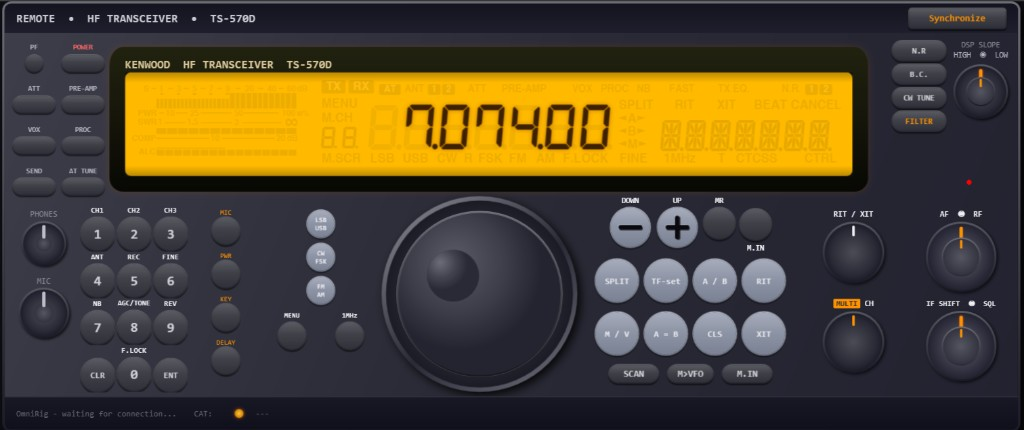
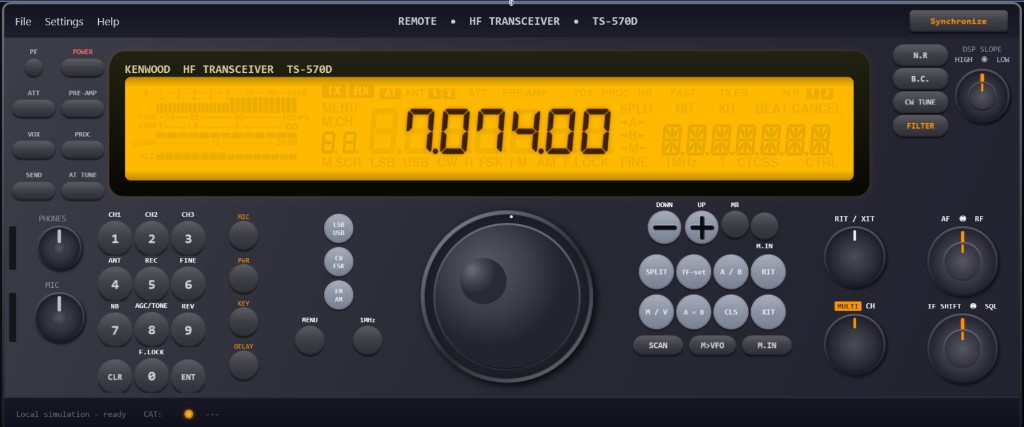
v0.2.0: audio/settings UI and refreshed README screenshot
Made-with: Cursor

diff --git a/TS570_Remote/AudioSettingsWindow.xaml b/TS570_Remote/AudioSettingsWindow.xaml
@@ -23,14 +23,14 @@
             <RowDefinition Height="Auto"/>
         </Grid.RowDefinitions>
         <TextBlock Grid.Row="0"
-                   Text="Como en WSJT-X: Input = audio desde la emisora hacia el PC; Output (monitor) = dónde escuchas en el PC; Output (TX / MIC) = altavoces USB hacia la emisora para transmitir."
+                   Text="As in WSJT-X: Input = radio to PC; Output (monitor) = where you listen on the PC; Output (TX / MIC) = USB playback toward the radio for transmit."
                    Foreground="#FFFFB040" FontFamily="Consolas" FontSize="10" TextWrapping="Wrap"
                    Margin="0,0,0,12"/>
 
-        <TextBlock Grid.Row="1" Text="Input — entrada (captura)"
+        <TextBlock Grid.Row="1" Text="Input — capture (recording)"
                    Foreground="#FFE0E0E8" FontFamily="Consolas" FontSize="11" TextWrapping="Wrap" Margin="0,0,0,4"/>
         <TextBlock Grid.Row="2"
-                   Text="Interfaz USB / línea desde ACC2 (audio de RX hacia Windows)."
+                   Text="USB / line from ACC2 (RX audio into Windows)."
                    Foreground="#FF8A8A96" FontFamily="Consolas" FontSize="9" TextWrapping="Wrap" Margin="0,0,0,8"/>
         <ComboBox x:Name="cmbCapture"
                   Grid.Row="3"
@@ -38,10 +38,10 @@
                   Margin="0,0,0,14"
                   DisplayMemberPath="FriendlyName"/>
 
-        <TextBlock Grid.Row="4" Text="Output — salida para monitor (knob PHONES en la app)"
+        <TextBlock Grid.Row="4" Text="Output — monitor playback (PHONES knob)"
                    Foreground="#FFE0E0E8" FontFamily="Consolas" FontSize="11" TextWrapping="Wrap" Margin="0,0,0,4"/>
         <TextBlock Grid.Row="5"
-                   Text="Altavoces o auriculares donde suena el monitor ACC2 (solo ganancia en software sobre esa ruta)."
+                   Text="Speakers or headphones for ACC2 monitoring (software gain on this path only)."
                    Foreground="#FF8A8A96" FontFamily="Consolas" FontSize="9" TextWrapping="Wrap" Margin="0,0,0,8"/>
         <ComboBox x:Name="cmbPlayback"
                   Grid.Row="6"
@@ -50,10 +50,10 @@
                   Margin="0,0,0,14"
                   DisplayMemberPath="FriendlyName"/>
 
-        <TextBlock Grid.Row="7" Text="Output — salida para transmitir (knob MIC → volumen Windows)"
+        <TextBlock Grid.Row="7" Text="Output — transmit path (MIC knob → Windows volume)"
                    Foreground="#FFE0E0E8" FontFamily="Consolas" FontSize="11" TextWrapping="Wrap" Margin="0,0,0,4"/>
         <TextBlock Grid.Row="8"
-                   Text="El mismo tipo que “Speakers (USB …)” en WSJT-X: nivel maestro de esa salida hacia la emisora, sin bajar la entrada de captura ni el monitor."
+                   Text="The WSJT-X-style Speakers (USB…) endpoint: master level toward the radio, without lowering capture input or monitor level."
                    Foreground="#FF8A8A96" FontFamily="Consolas" FontSize="9" TextWrapping="Wrap" Margin="0,0,0,8"/>
         <ComboBox x:Name="cmbTxPlayback"
                   Grid.Row="9"
@@ -62,8 +62,8 @@
                   DisplayMemberPath="FriendlyName"/>
 
         <StackPanel Grid.Row="11" Orientation="Horizontal" HorizontalAlignment="Right" Margin="0,14,0,0">
-            <Button Content="Aceptar" Width="90" Height="26" Margin="0,0,8,0" IsDefault="True" Click="BtnOk_Click"/>
-            <Button Content="Cancelar" Width="90" Height="26" IsCancel="True" Click="BtnCancel_Click"/>
+            <Button Content="OK" Width="90" Height="26" Margin="0,0,8,0" IsDefault="True" Click="BtnOk_Click"/>
+            <Button Content="Cancel" Width="90" Height="26" IsCancel="True" Click="BtnCancel_Click"/>
         </StackPanel>
     </Grid>
 </Window>

diff --git a/TS570_Remote/MainWindow.xaml b/TS570_Remote/MainWindow.xaml
@@ -1,4 +1,4 @@
-<Window x:Class="TS570_Remote.MainWindow"
+<Window x:Class="TS570_Remote.MainWindow"
         xmlns="http://schemas.microsoft.com/winfx/2006/xaml/presentation"
         xmlns:x="http://schemas.microsoft.com/winfx/2006/xaml"
         xmlns:d="http://schemas.microsoft.com/expression/blend/2008"
@@ -563,19 +563,19 @@
                                     <Setter Property="FontSize" Value="11"/>
                                 </Style>
                             </Menu.Resources>
-                            <MenuItem Header="_Archivo">
-                                <MenuItem Header="_Salir" Click="MenuArchivoSalir_Click"/>
+                            <MenuItem Header="_File">
+                                <MenuItem Header="_Exit" Click="MenuArchivoSalir_Click"/>
                             </MenuItem>
-                            <MenuItem Header="_Configuración">
+                            <MenuItem Header="_Settings">
                                 <MenuItem x:Name="menuMonitorAcc2" Header="Monitor _ACC2 (USB)" IsCheckable="True"
                                           Checked="MenuMonitorAcc2_Checked" Unchecked="MenuMonitorAcc2_Unchecked"/>
                                 <Separator/>
                                 <MenuItem Header="_Audio (USB / ACC2)…" Click="MenuConfigAudio_Click"/>
                                 <Separator/>
-                                <MenuItem Header="_Abrir carpeta de datos…" Click="MenuConfigOpenDataFolder_Click"/>
+                                <MenuItem Header="_Open data folder…" Click="MenuConfigOpenDataFolder_Click"/>
                             </MenuItem>
-                            <MenuItem Header="_Ayuda">
-                                <MenuItem Header="_Acerca de…" Click="MenuAyudaAcerca_Click"/>
+                            <MenuItem Header="_Help">
+                                <MenuItem Header="_About…" Click="MenuAyudaAcerca_Click"/>
                             </MenuItem>
                         </Menu>
                         <Button x:Name="btnSynchronize" DockPanel.Dock="Right"

diff --git a/TS570_Remote/MainWindow.Local.cs b/TS570_Remote/MainWindow.Local.cs
@@ -69,7 +69,7 @@ namespace TS570_Remote
 
             ledCatGreen.Visibility = Visibility.Hidden;
             ledCatAmber.Visibility = Visibility.Visible;
-            txtStatusLeft.Text = "Local: panel simulado · CAT/OmniRig pendiente · audio vía USB/ACC2";
+            txtStatusLeft.Text = "Local: simulated panel · CAT/OmniRig pending · audio via USB/ACC2";
 
             if (!string.IsNullOrEmpty(_settings.AudioTxPlaybackDeviceId)
                 && WindowsPlaybackEndpointVolume.TryGetMasterVolumeScalar(_settings.AudioTxPlaybackDeviceId, out float micScalar))
@@ -108,7 +108,7 @@ namespace TS570_Remote
             {
                 MessageBox.Show(
                     this,
-                    "Configura antes la entrada (USB / ACC2) y la salida en Configuración → Audio (USB / ACC2)….",
+                    "Set capture (USB / ACC2) and monitor playback under Settings → Audio (USB / ACC2) first.",
                     "Monitor ACC2",
                     MessageBoxButton.OK,
                     MessageBoxImage.Information);
@@ -128,7 +128,7 @@ namespace TS570_Remote
             {
                 menuMonitorAcc2.IsChecked = false;
                 MessageBox.Show(this,
-                    "No se pudo abrir WASAPI capture/playback.\r\n\r\n" + ex.Message,
+                    "Could not open WASAPI capture/playback.\r\n\r\n" + ex.Message,
                     "Monitor ACC2",
                     MessageBoxButton.OK,
                     MessageBoxImage.Warning);
@@ -162,7 +162,7 @@ namespace TS570_Remote
             if (dlg.ShowDialog() != true)
                 return;
 
-            txtStatusRight.Text = "  Audio USB/ACC2 guardado";
+            txtStatusRight.Text = "  Audio USB/ACC2 saved";
             if (menuMonitorAcc2.IsChecked == true)
                 TryStartAcc2Monitor();
         }
@@ -178,10 +178,10 @@ namespace TS570_Remote
         {
             MessageBox.Show(
                 this,
-                "TS570 Remote — panel local; CAT/OmniRig para comando de radio.\n"
-                + "Audio NF: interfaz(es) USB conectada(s) al ACC2 (no pasa por OmniRig).\n\n"
-                + $"Ajustes: {Path.Combine(Environment.GetFolderPath(Environment.SpecialFolder.LocalApplicationData), "TS570_Remote")}",
-                "Acerca de TS570 Remote",
+                "TS570 Remote — local front panel; CAT/OmniRig drives radio commands.\n"
+                + "Audio NF: USB interface(s) on ACC2 (not via OmniRig).\n\n"
+                + $"Settings folder: {Path.Combine(Environment.GetFolderPath(Environment.SpecialFolder.LocalApplicationData), "TS570_Remote")}",
+                "About TS570 Remote",
                 MessageBoxButton.OK,
                 MessageBoxImage.Information);
         }

diff --git a/TS570_Remote/AppSettings.cs b/TS570_Remote/AppSettings.cs
@@ -5,13 +5,13 @@ namespace TS570_Remote;
 
 public sealed class AppSettings
 {
-    /// <summary>Salida WASAPI donde se monitoriza el audio de recepción en el PC (equivalente al monitor; knob PHONES en software).</summary>
+    /// <summary>WASAPI playback device used for RX monitoring on the PC (PHONES knob applies software gain).</summary>
     public string? AudioPlaybackDeviceId { get; set; }
 
-    /// <summary>Salida WASAPI cuyo volumen maestro de Windows ajusta el knob MIC (audio PC→emisora; equivalente a “Output” en WSJT-X).</summary>
+    /// <summary>WASAPI playback device whose Windows master level is driven by the MIC knob (PC→radio TX path; WSJT-X Output).</summary>
     public string? AudioTxPlaybackDeviceId { get; set; }
 
-    /// <summary>Entrada WASAPI: interfaz USB en el camino ACC2 → PC (audio que sale de la emisora, no CAT/OmniRig).</summary>
+    /// <summary>WASAPI capture from ACC2→PC (audio from the radio; not CAT/OmniRig).</summary>
     public string? AudioCaptureDeviceId { get; set; }
 
     private static string FilePath =>

diff --git a/TS570_Remote/Acc2AudioBridge.cs b/TS570_Remote/Acc2AudioBridge.cs
@@ -5,8 +5,8 @@ using NAudio.Wave;
 namespace TS570_Remote;
 
 /// <summary>
-/// NF desde USB/ACC2: captura WASAPI → volumen PHONES en monitor → salida WASAPI.
-/// El nivel MIC se controla en Windows sobre la salida TX (<see cref="WindowsPlaybackEndpointVolume"/>), no aquí.
+/// NF from USB/ACC2: WASAPI capture → PHONES monitor gain → WASAPI playback.
+/// MIC level is controlled in Windows on the TX output (<see cref="WindowsPlaybackEndpointVolume"/>), not here.
 /// </summary>
 internal sealed class Acc2AudioBridge : IDisposable
 {
@@ -21,7 +21,7 @@ internal sealed class Acc2AudioBridge : IDisposable
 
     public bool IsRunning => _playback?.PlaybackState == PlaybackState.Playing;
 
-    /// <summary>Solo PHONES: ganancia de monitor en software. MIC → endpoint Windows.</summary>
+    /// <summary>PHONES only: monitor gain in software. MIC uses Windows TX playback endpoint.</summary>
     public void SetPlaybackMonitorGain(float phones01)
     {
         lock (_gainLock)

diff --git a/TS570_Remote/AudioSettingsWindow.xaml.cs b/TS570_Remote/AudioSettingsWindow.xaml.cs
@@ -48,9 +48,9 @@ public partial class AudioSettingsWindow : Window
 
     private void LoadDevices()
     {
-        LoadCombo(cmbCapture, AudioDeviceHelper.GetCaptureDevices(), "(No hay dispositivos de entrada)");
-        LoadCombo(cmbPlayback, AudioDeviceHelper.GetPlaybackDevices(), "(No hay dispositivos de salida)");
-        LoadCombo(cmbTxPlayback, AudioDeviceHelper.GetPlaybackDevices(), "(No hay dispositivos de salida)");
+        LoadCombo(cmbCapture, AudioDeviceHelper.GetCaptureDevices(), "(No input devices)");
+        LoadCombo(cmbPlayback, AudioDeviceHelper.GetPlaybackDevices(), "(No output devices)");
+        LoadCombo(cmbTxPlayback, AudioDeviceHelper.GetPlaybackDevices(), "(No output devices)");
     }
 
     private static void SaveIfValid(ComboBox cmb, Action<string?> setter)

diff --git a/TS570_Remote/WindowsPlaybackEndpointVolume.cs b/TS570_Remote/WindowsPlaybackEndpointVolume.cs
@@ -4,8 +4,8 @@ using NAudio.CoreAudioApi;
 namespace TS570_Remote;
 
 /// <summary>
-/// Nivel maestro del dispositivo de salida WASAPI (mezclador de Windows).
-/// Usado para el knob MIC: nivel hacia la emisora por la interfaz tipo “Speakers (USB)”, sin tocar la entrada que alimenta el monitor RX.
+/// Windows playback endpoint master volume.
+/// Used for the MIC knob: level toward the radio via the Speakers (USB) style endpoint, without touching RX capture feeding the monitor.
 /// </summary>
 internal static class WindowsPlaybackEndpointVolume
 {

diff --git a/TS570_Remote/AudioDeviceHelper.cs b/TS570_Remote/AudioDeviceHelper.cs
@@ -32,7 +32,7 @@ internal static class AudioDeviceHelper
         return list;
     }
 
-    /// <summary>Entradas de grabación (p. ej. interfaz USB en el camino ACC2 → PC).</summary>
+    /// <summary>Recording inputs (e.g. USB interface on ACC2→PC path).</summary>
     public static IReadOnlyList<AudioDeviceInfo> GetCaptureDevices()
     {
         var list = new List<AudioDeviceInfo>();

diff --git a/README.md b/README.md
@@ -1,5 +1,7 @@
 # ts570d_remote
 
+**Build:** `v0.2.0` (assembly / informational version in `TS570_Remote.csproj`).
+
 **Disclaimer:** This repository is **vibe coded** (AI-assisted, exploratory hacking) and is **only an experiment**. It is not production software, not audited for safety or correctness, and not a substitute for the manufacturer’s tools or documentation.
 
 ---
